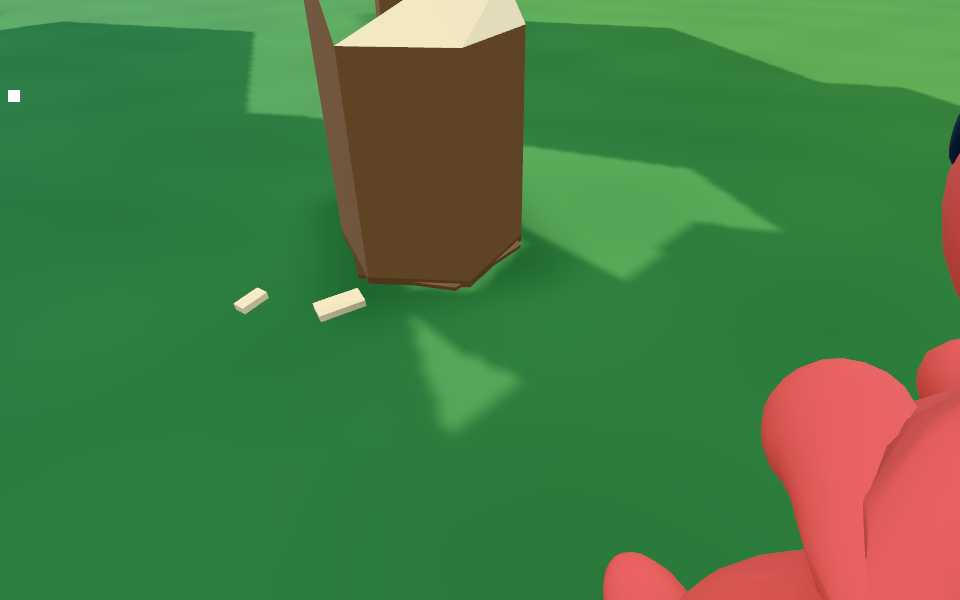
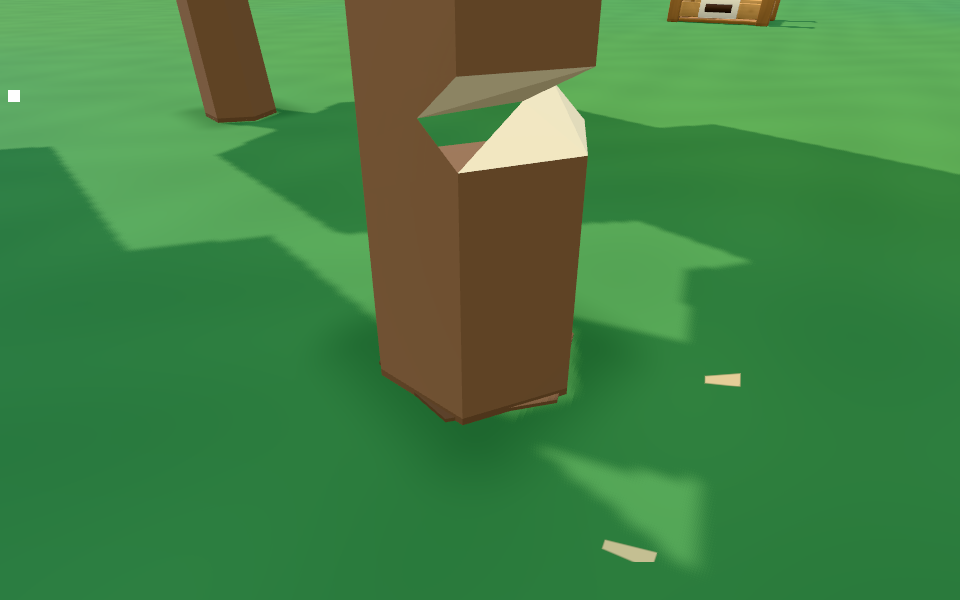
Chop chips land, lie and fade at the tree's foot; fix particles drawing as dark blobs (G20)
The particle pool's fragment shader picked each sprite's shape by exact float equality on an interpolated value, so
some sprites in every effect (chips, glints, quads, dust) fell through to the soft round default and drew as dark
blurry blobs. It now compares by nearest integer. With that fixed, the pool gains a `settle` mode: a particle lands on
its floor, stops, lies near level and fades. Three of each chop's chips settle by the trunk for a few seconds,
replacing the fixed litter boards, and the tree's chips draw at the readable intensity so the pale wood reads pale.

diff --git a/src/render/place-tree-view.ts b/src/render/place-tree-view.ts
@@ -155,7 +155,6 @@ export function createTreeView(
   const trunkRadius = (h: number) => TRUNK_BASE + ((TRUNK_TOP - TRUNK_BASE) * h) / TRUNK_H;
   // The felling cut's inner edge, 30% of the radius past the axis: from the side the hinge left is a sliver.
   const APEX_DEEP = -0.3 * trunkRadius(NOTCH_MID);
-  const LITTER = 6; // chips at the foot of a felling cut
   // A first hit already shows a small notch (about 8 cm deep); the last one is the whole cut.
   const notchAt = (cut: number) => Math.min(1, 0.08 + 0.92 * Math.max(0, cut));
 
@@ -314,8 +313,6 @@ export function createTreeView(
     broad: new THREE.InstancedMesh(new THREE.SphereGeometry(1, 7, 5), tree('#657a37', 'green'), hardwoodCount * 3),
     branch: new THREE.InstancedMesh(new THREE.CylinderGeometry(0.17, 0.21, 1.5, 8), flat('#686359'), hardwoodCount),
     cutEnd: new THREE.InstancedMesh(new THREE.CircleGeometry(0.17, 8), flat('#ddc89b'), hardwoodCount),
-    // Chips lying round the foot of a tree being chopped, more as the notch deepens: fresh wood like its faces.
-    litter: new THREE.InstancedMesh(new THREE.BoxGeometry(0.17, 0.035, 0.08), flat('#ead3a0'), n * LITTER),
   };
   const roots = [
     createTreeRoots(
@@ -352,15 +349,6 @@ export function createTreeView(
   notchDepth.morphTargetInfluences = [0];
   parts.bitten.setMorphAt(0, notchDepth);
   for (let slot = n; slot < parts.bitten.count; slot++) parts.bitten.setMatrixAt(slot, ZERO);
-  const chipAt = new THREE.Matrix4(),
-    chipTurn = new THREE.Quaternion(),
-    chipPlace = new THREE.Vector3(),
-    chipSize = new THREE.Vector3();
-  // A fixed scatter per tree and chip (view only): the same tree always drops its chips in the same places.
-  const scatter = (tree: number, chip: number, salt: number) => {
-    const v = Math.sin(tree * 12.9898 + chip * 78.233 + salt * 37.719) * 43758.5453;
-    return v - Math.floor(v);
-  };
   let fitted = false;
   function write(mesh: (typeof batches)[number], slot: number, matrix: THREE.Matrix4, grow: boolean) {
     mesh.setMatrixAt(slot, matrix);
@@ -381,7 +369,6 @@ export function createTreeView(
     if (t.cleared) {
       for (const mesh of [parts.trunk, parts.crown, parts.crown2, parts.stump, parts.notch, parts.bitten])
         put(mesh, t.index, ZERO);
-      for (let k = 0; k < LITTER; k++) put(parts.litter, t.index * LITTER + k, ZERO);
       if (hardwoodIndex !== undefined) {
         for (const mesh of [parts.hardwood, parts.branch, parts.cutEnd]) put(mesh, hardwoodIndex, ZERO);
         for (let slot = 0; slot < 2; slot++) put(parts.forks, hardwoodIndex * 2 + slot, ZERO);
@@ -426,21 +413,6 @@ export function createTreeView(
       notchDepth.morphTargetInfluences![0] = notchAt(cut);
       parts.bitten.setMorphAt(t.index, notchDepth);
       parts.bitten.morphTexture!.needsUpdate = true;
-    }
-    const chips = bite ? Math.ceil(notchAt(cut) * LITTER) : 0;
-    for (let k = 0; k < LITTER; k++) {
-      if (k >= chips) {
-        put(parts.litter, t.index * LITTER + k, ZERO);
-        continue;
-      }
-      const angle = scatter(t.index, k, 1) * Math.PI * 2,
-        reach = (0.6 + 0.7 * scatter(t.index, k, 2)) * t.size;
-      const x = t.x + Math.sin(angle) * reach,
-        z = t.z + Math.cos(angle) * reach;
-      chipTurn.setFromEuler(e.set(0.25 * (scatter(t.index, k, 3) - 0.5), scatter(t.index, k, 4) * Math.PI * 2, 0));
-      const s = 0.7 + 0.6 * scatter(t.index, k, 5);
-      chipAt.compose(chipPlace.set(x, H(x, z) + 0.02, z), chipTurn, chipSize.set(s, 1, s));
-      put(parts.litter, t.index * LITTER + k, chipAt);
     }
     if (hardwoodIndex !== undefined) put(parts.hardwood, hardwoodIndex, taken || compact ? ZERO : at(2.5));
     // A crown follows the trunk's contact by 80 ms rather than twitching as one rigid stick.

diff --git a/src/render/particle-pool.ts b/src/render/particle-pool.ts
@@ -54,6 +54,8 @@ export type Particle = {
   spin?: number; // radians/second
   /** Floor restitution, then a 180 ms retirement. Unset retains floor death (water spray). */
   bounce?: number;
+  /** Comes to rest on its floor, stops spinning and lies there until its life runs out (overrides bounce). */
+  settle?: boolean;
   sizeCurve?: ParticleCurve;
   alphaCurve?: ParticleCurve;
   /** Linear-RGB interpolation at birth, half-life and death; intensity is applied once to every key. */
@@ -128,7 +130,15 @@ export function createParticlePool(renderer: THREE.WebGPURenderer, now = () => p
     vl.y.subAssign(mo.y.mul(dt));
     pl.xyz.addAssign(vl.xyz.mul(dt));
     If(vl.y.lessThan(0).and(pl.y.lessThan(mo.w)), () => {
-      If(end.w.greaterThan(0), () => {
+      If(end.w.lessThan(0), () => {
+        // Settled: lies where it landed and stops turning, its long side within about 20° of level so it reads as
+        // a chip lying flat, never one standing on end. Rotation is birth angle plus spin × elapsed (drawLook).
+        pl.y.assign(mo.w);
+        vl.xyz.mulAssign(0);
+        mo.y.assign(0);
+        ap.y.assign(sin(ap.y.add(ap.z.mul(ap.w))).mul(0.35));
+        ap.z.assign(0);
+      }).ElseIf(end.w.greaterThan(0), () => {
         pl.y.assign(mo.w);
         vl.y.assign(vl.y.negate().mul(end.w));
         vl.xz.mulAssign(0.35);
@@ -217,17 +227,20 @@ export function createParticlePool(renderer: THREE.WebGPURenderer, now = () => p
     const dustA = texture(dust, rotated.mul(0.5).add(0.5)).a.toVar();
     const alpha = max(0, dot(p, p).oneMinus()).toVar(),
       shade = float(1).toVar();
-    If(ap.x.equal(1), () => {
+    // The shape index reaches the fragment as an interpolated float that can land a hair off its integer on some
+    // sprites; exact equality dropped those to the soft round default (dark blurry blobs), so compare by nearest.
+    const shape = ap.x.add(0.5).floor();
+    If(shape.equal(1), () => {
       alpha.assign(starA);
     });
-    If(ap.x.equal(2), () => {
+    If(shape.equal(2), () => {
       alpha.assign(quadA);
     });
-    If(ap.x.equal(3), () => {
+    If(shape.equal(3), () => {
       alpha.assign(chipA);
       shade.assign(tumble.mul(0.25).add(0.75));
     });
-    If(ap.x.equal(4), () => {
+    If(shape.equal(4), () => {
       alpha.assign(dustA);
     });
     return vec4(c.xyz.mul(shade), c.w.mul(alpha));
@@ -292,7 +305,7 @@ export function createParticlePool(renderer: THREE.WebGPURenderer, now = () => p
     four(o + 24, p.sizeCurve?.[0] ?? 1, p.sizeCurve?.[1] ?? 1, p.sizeCurve?.[2] ?? 1, 0);
     four(o + 28, p.alphaCurve?.[0] ?? 1, p.alphaCurve?.[1] ?? 1, p.alphaCurve?.[2] ?? 1, 0);
     colorAt(o + 32, p.colorCurve?.[1] ?? p.color, intensity, 0);
-    colorAt(o + 36, p.colorCurve?.[2] ?? p.color, intensity, p.bounce ?? 0);
+    colorAt(o + 36, p.colorCurve?.[2] ?? p.color, intensity, p.settle ? -1 : (p.bounce ?? 0));
     four(o + 40, slot, 0, 0, 0);
     deathAt[slot] = time + p.life * 1000;
     liveUntil = Math.max(liveUntil, deathAt[slot]);

diff --git a/src/render/particle-effects.ts b/src/render/particle-effects.ts
@@ -2,6 +2,7 @@
 import * as THREE from 'three/webgpu';
 import { reducedMotion } from '../constants.ts';
 import { emit, type Particle } from './particles.ts';
+import { readableIntensity } from './readable-unlit.ts';
 
 /** Small typed authoring surface; visual-only, never saved or sent to another player. */
 const particleEffects = {
@@ -85,10 +86,34 @@ const freshWood = [
   new THREE.Color('#f6e2b8'),
   new THREE.Color('#7a5430'),
 ];
-/** A chop's chips: pale like the cut they came out of. */
-export function woodChips(x: number, y: number, z: number, n: number) {
+/**
+ * A chop's chips, pale like the cut they came out of and as bright as authored (readable intensity, not the dimmer
+ * default that suits dust). The first `settle` fly short and low towards `yaw` (out of the cut), land on `floor`, lie
+ * still and fade over a few seconds; the rest fly and are gone as they land.
+ */
+export function woodChips(x: number, y: number, z: number, n: number, floor: number, settle: number, yaw: number) {
   if (reducedMotion) return;
-  chips(x, y, z, n, undefined, undefined, false, 1, freshWood);
+  chip.intensity = readableIntensity();
+  chips(x, y, z, n - settle, floor, undefined, false, 1, freshWood);
+  chip.floor = floor + 0.025;
+  for (let k = 0; k < settle; k++) {
+    const a = yaw + (Math.random() - 0.5) * 2.4,
+      speed = 1.3 + Math.random() * 1.1;
+    chip.vx = Math.sin(a) * speed;
+    chip.vz = Math.cos(a) * speed;
+    chip.vy = 0.8 + Math.random();
+    chip.life = 4 + Math.random() * 2;
+    chip.fade = 0.35;
+    chip.settle = true;
+    chip.size = particleEffects.chipSize * (0.8 + Math.random() * 0.4);
+    chip.color = freshWood[k % 3]!; // wood, not the bark flake
+    chip.rotation = Math.random() * Math.PI * 2;
+    chip.spin = (k % 2 ? 1 : -1) * (5 + Math.random() * 9);
+    emit(chip);
+  }
+  chip.fade = 0.22;
+  chip.settle = false;
+  chip.intensity = 1;
 }
 
 /** Low-alpha lobes, not a smoke wall. Dust keeps intensity one under the existing exposure policy. */

diff --git a/src/entities/railway/sources.ts b/src/entities/railway/sources.ts
@@ -555,8 +555,9 @@ export async function createRailwaySources(adapter: RailwayAdapter, owner: Owned
     tree.hitAt = performance.now();
     if (tree.cleared) return;
     placeSound('treeBite', tree.x, tree.z);
-    // More chips as the notch deepens (G20): 9 at the first stroke, 14 at the felling one, pale like the cut.
-    pieces.woodChips(at.x, at.y, at.z, 9 + Math.round(5 * Math.min(1, tree.work / 15)));
+    // More chips as the notch deepens (G20): 9 at the first stroke, 14 at the felling one, pale like the cut; three
+    // of them land by the trunk and lie a few seconds before fading.
+    pieces.woodChips(at.x, at.y, at.z, 9 + Math.round(5 * Math.min(1, tree.work / 15)), H(at.x, at.z), 3, tree.cutYaw);
     for (let k = 0; k < event.accepted - (event.returned ?? 0); k++) {
       const flight = pieces.send(
         'log',

diff --git a/docs/agent-calls.md b/docs/agent-calls.md
@@ -200,7 +200,7 @@ Split by topic on 10 November 2026 (see [decisions.md](decisions.md#recording-a-
 | 2026-11-18 | Default: a tree's notch bites into the trunk with a darker inner face, so the trunk reads narrower as pieces are taken; chips grow from 9 to 14 with the cut (G20, plan only) | [grant-c8-batch](plans/grant-c8-batch.md#design-review-2026-11-18); `src/render/place-tree-view.ts` | Planner (design review) | At 1 a hit a tree takes 10 hits; the tree should show its own progress | open |
 | 2026-11-18 | Default: the bite is a band from 0.94 to 1.3 m opened on the stroke's side, its dark heart about 8 cm deep at the first hit and 60% of the trunk's radius at the felling one; the felled trunk keeps its bite, where the notch was hidden once a tree fell (G20, as built, #2214) | [grant-c8-batch](plans/grant-c8-batch.md); `src/render/place-tree-view.ts` | Builder; the orchestrator's read | Cheap to retune; the lying log shows where it was cut | open |
 | 2026-11-18 | Default: the V notch spans 0.84 to 1.4 m on the stroke's side, about 8 cm deep at the first hit, its inner edge 30% of the trunk's radius past the axis at the felling one; the wood is `#ead3a0`; the chips in the air are three pale woods and one bark flake in four | [decision](decisions-look.md#d-2026-11-18-chop-v-notch); `src/render/place-tree-view.ts`, `src/render/particle-effects.ts` | Builder | Seen at 2, 5 and 9 strokes; cheap to retune | open |
-| 2026-11-18 | Default: the chips at the foot are up to six small pale boards, one more about every two hits, in the same places for each tree, lying until the stump regrows, not fading after a few seconds | [decision](decisions-look.md#d-2026-11-18-chop-v-notch); `src/render/place-tree-view.ts` | Builder | Particles left to settle drew as dark blobs; fixed boards are cheap, always visible and show which trees were worked | open |
+| 2026-11-19 | Default: three of each chop's chips fly short and low out of the cut, land by the trunk, lie flat for about 3 to 5 seconds and fade; the tree's chips draw at the readable intensity (as authored, not the dimmer default dust keeps) | [decision](decisions-look.md#d-2026-11-18-chop-v-notch); `src/render/particle-effects.ts`, `src/render/particle-pool.ts` | Builder | A few at a time keeps the foot readable without a pile; at the default intensity "pale" wood drew brown | open |
 | 2026-11-18 | Default: hardwoods and the great tree keep the old notch (G20, as built, #2214) | [grant-c8-batch](plans/grant-c8-batch.md); `src/render/place-tree-view.ts` | Builder; the orchestrator's read | Their trunks are other shapes and their strokes other counts; Grant's note was the ordinary tree | open |
 | 2026-11-18 | Default: a box's card (one with a rarity mark) counts as a wearable for the once-only Pause hint; the shop's "Take it" card does not carry it (G22, as built, #2214) | [grant-c8-batch](plans/grant-c8-batch.md); `src/entities/railway/reward.ts` | Builder; the orchestrator's read | Every box holds a wearable today; the shop's file was outside the sitting | open |
 | 2026-11-18 | Default: under reduced motion the ghosts hold still at 0.6, no oscillation | `src/render/ghost-outline.ts`; [decision](decisions-look.md#d-2026-11-16-gold-outline-not-physical) | Gold-outline builder (Opus) | Keeps the not-physical read without motion, as the kiln's ghosts already stay when motes stop | open |

diff --git a/docs/game-design/place.md b/docs/game-design/place.md
@@ -1850,10 +1850,10 @@ two faces pale fresh wood with bark at the rim. It deepens as pieces are taken, 
 past the trunk's axis at the felling one, so from the side only a thin hinge is left. The notch is one trunk shape
 with a per-tree depth (a morph target read per instance), so there is no extra batch for it. The felled trunk tips
 and lies with its notch, over the pale stump. Each accepted chop throws more chips as the notch deepens, pale like
-its faces with one bark flake in four: 9 at the first hit, 14 at the felling one (hardwoods by the same work). Up to
-six small pale boards lie round the foot, one more about every two hits, in the same places for that tree, until the
-stump regrows. Hardwoods and the great tree keep the old dark notch, and a refused stroke still leaves only its
-shallow scuff. View only (`src/render/place-tree-view.ts`, `src/render/particle-effects.ts`,
+its faces with one bark flake in four: 9 at the first hit, 14 at the felling one (hardwoods by the same work). Three
+of each chop's chips fly short and low out of the cut, land by the trunk, lie flat for a few seconds and fade (the
+pool's `settle` particles). The tree's chips draw at the readable intensity so the pale wood reads pale. Hardwoods and the great tree keep the old dark notch, and a refused stroke still leaves only its
+shallow scuff. View only (`src/render/place-tree-view.ts`, `src/render/particle-effects.ts`, `src/render/particle-pool.ts`,
 `src/entities/railway/sources.ts`); the rule, the yield and the timing are unchanged. Depth, colours and chip counts
 are defaults, cheap to retune.
 
